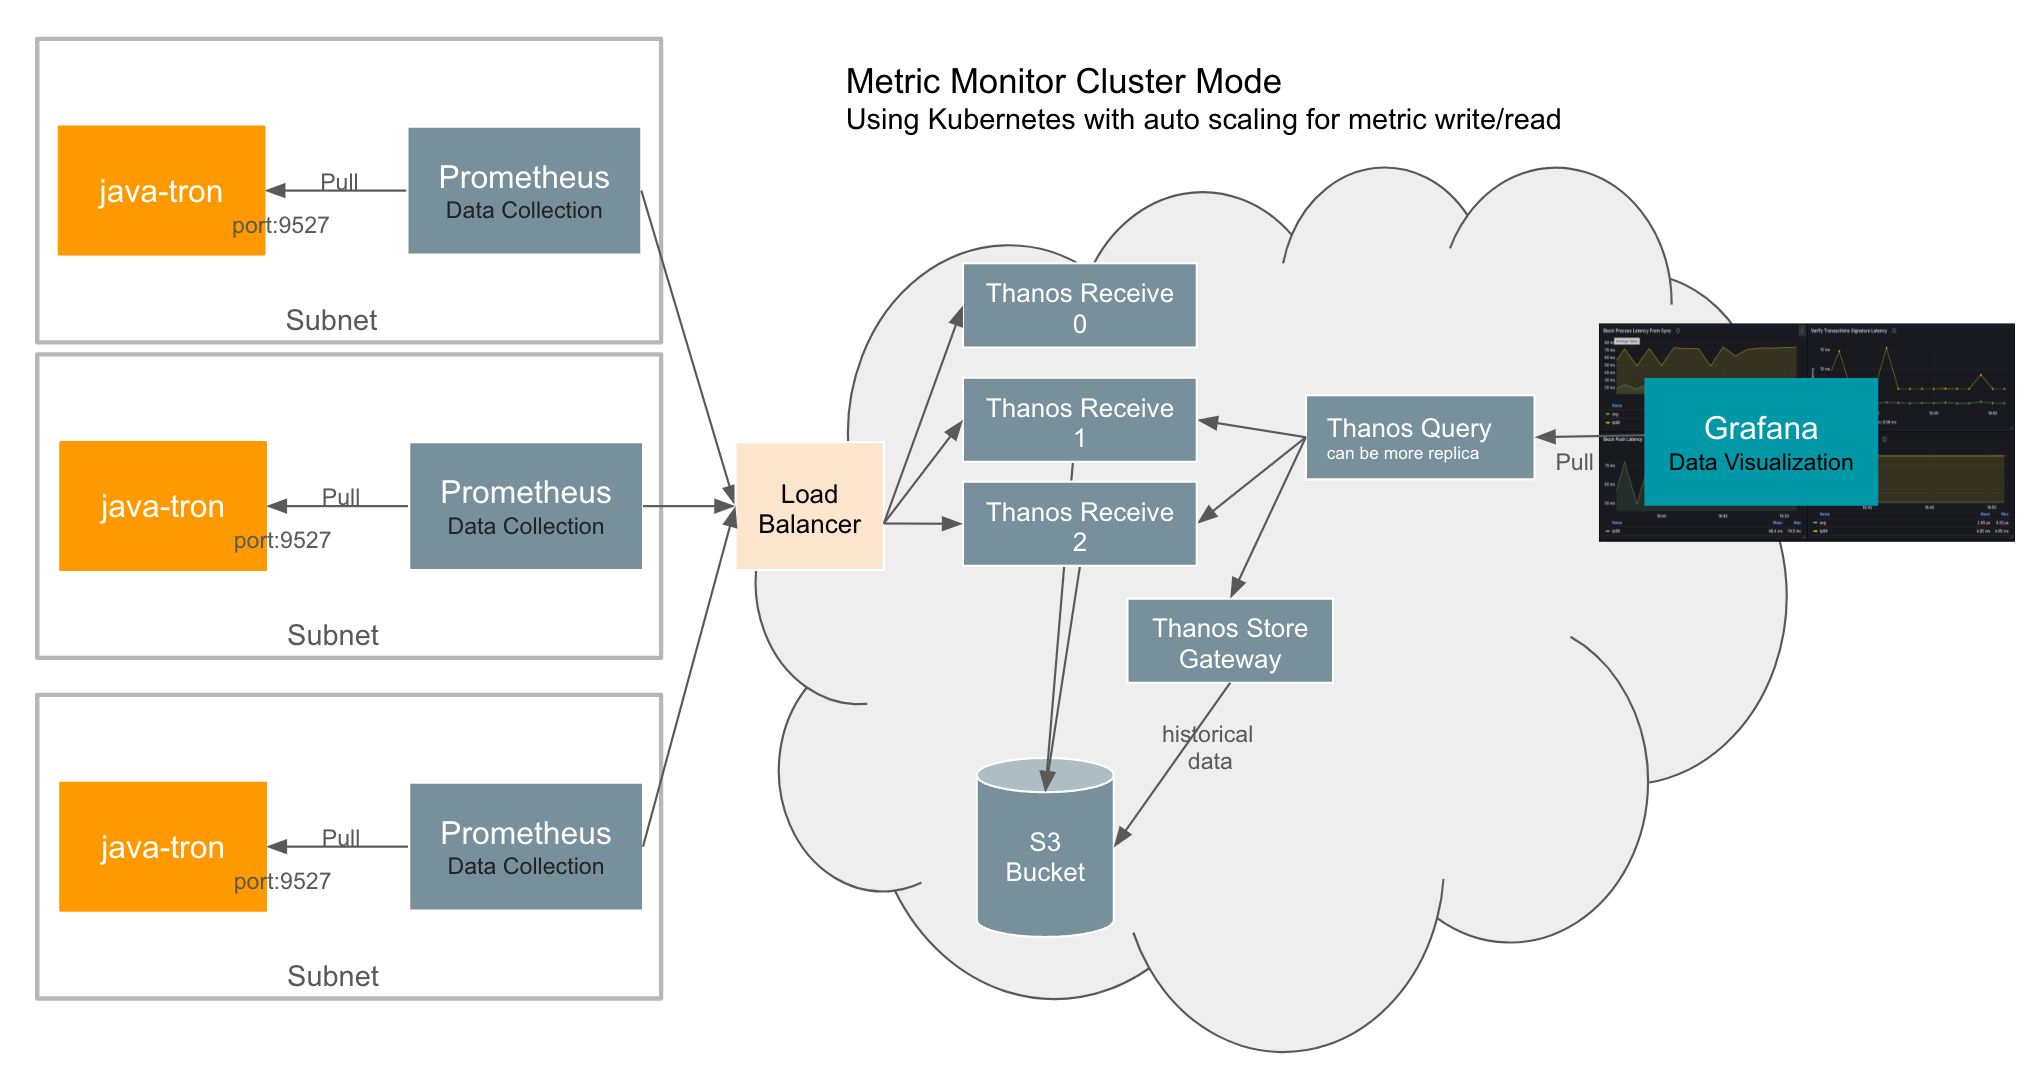
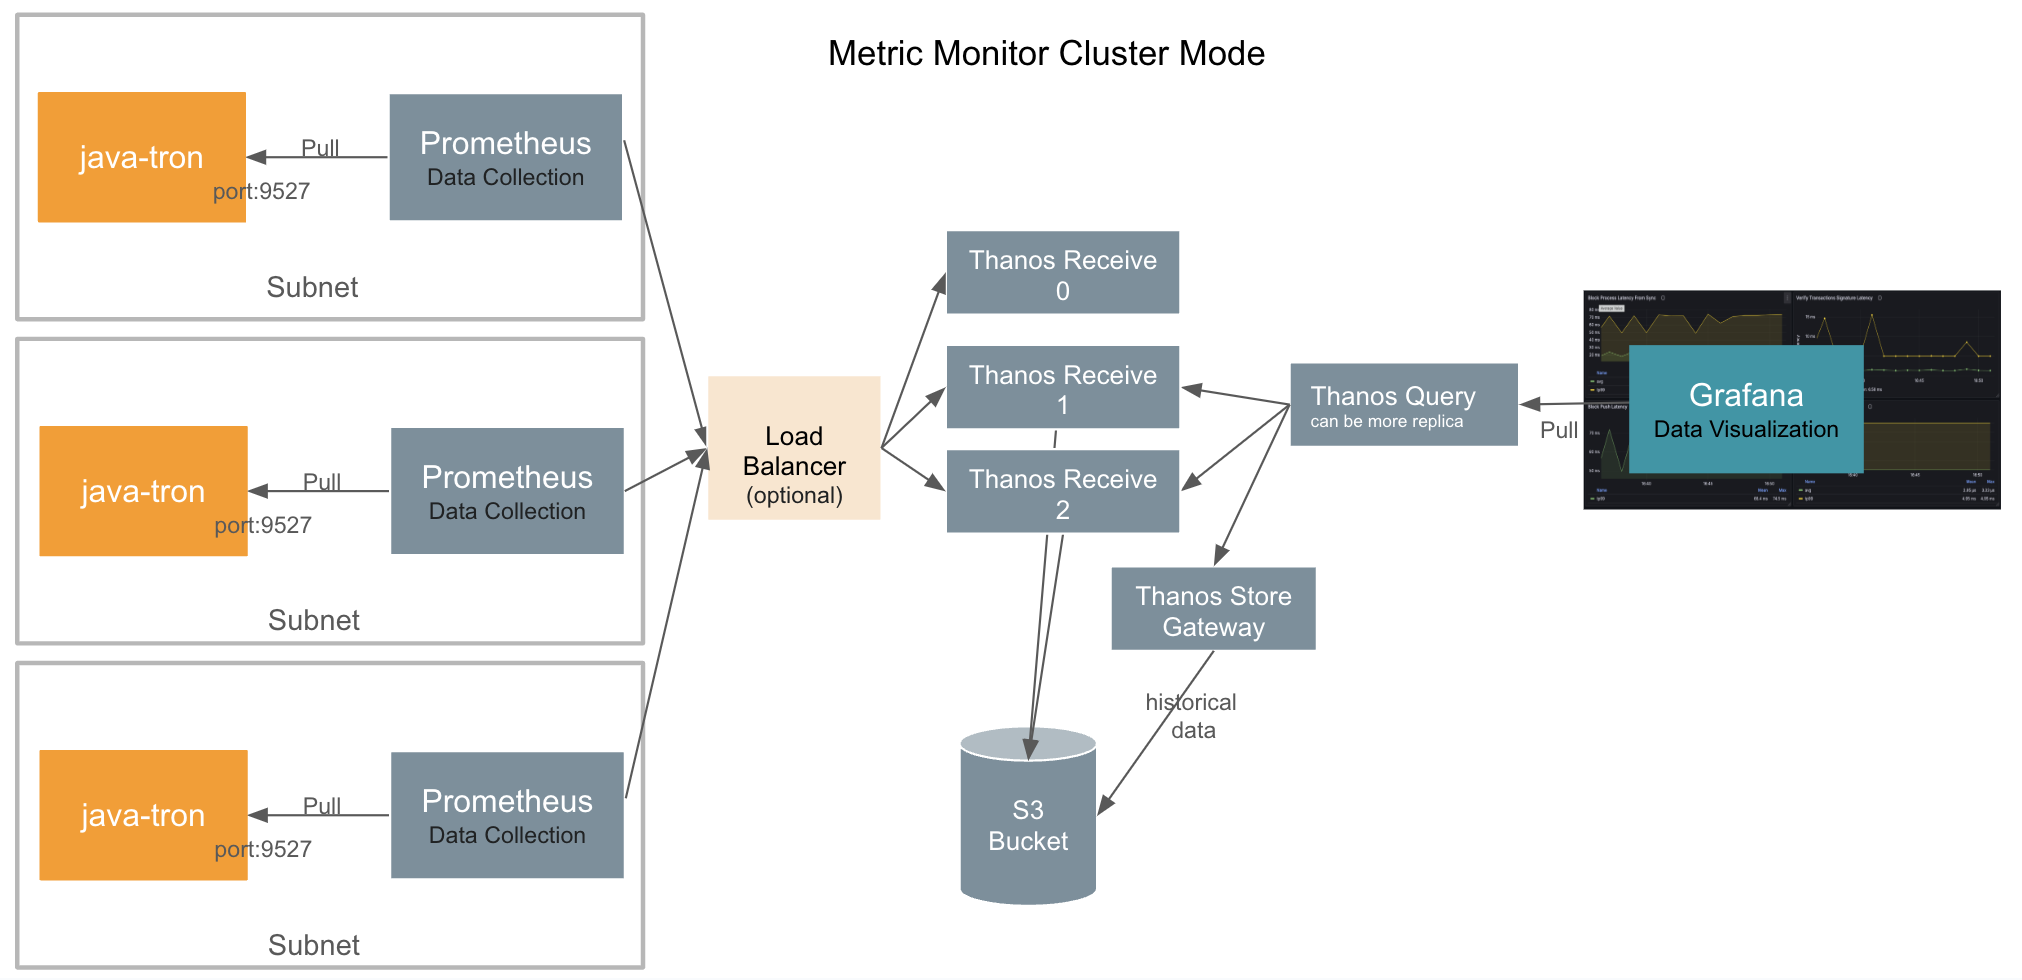
update

diff --git a/metric_monitor/REMOTE_WRITE_WITH_THANOS.md b/metric_monitor/REMOTE_WRITE_WITH_THANOS.md
@@ -15,28 +15,31 @@ To address these concerns, we need to change the pull mode either from the java-
 ### New Architecture
 Given these considerations, we will implement a push mode for the data flow from Prometheus to Grafana. Prometheus offers a **remote-write** feature that supports push mode, facilitating this transition. We have selected [Thanos](https://github.com/thanos-io/thanos) as an intermediate component. Thanos not only supports remote write but also provides additional features such as long-term storage, high availability, and global querying, thereby improving the overall architecture and functionality of our monitoring system.
 
-Below is the new more reliable architecture of the monitoring system. We will introduce how to set up the Prometheus remote-write feature and Thanos related services in the following sections.
-<img src="../images/metric_thanos_arch.png" alt="Alt Text" width="950" >
+The following diagram illustrates our enhanced monitoring system architecture in cluster mode with multiple java-tron services. This design provides improved reliability and scalability through distributed components. In the subsequent sections, we'll guide you through configuring Prometheus remote-write and Thanos services. For simpler use cases where high availability isn't critical, deploying a single Thanos Receive instance may suffice.
+
+<img src="../images/metric_cluster_mode.png" alt="Alt Text" width="950" >
 
 ## Implementation Guide
 This section introduces the steps of setting up Prometheus remote write with Thanos.
 
 ### Prerequisites
-Before starting, ensure you have:
+Before proceeding, ensure you have the following prerequisites:
+
 - Docker and Docker Compose installed (refer to [prerequisites](../README.md#prerequisites))
-  - Make sure docker resource memory is at least 16GB, as java-tron node needs at least 12GB memory.
-- The tron-docker repository cloned locally
-```sh
-git clone https://github.com/tronprotocol/tron-docker.git
-cd tron-docker/metric_monitor
-```
+  - For host machines running a java-tron FullNode, the minimum docker resource requirements, please refer to the [single_node](../single_node/README.md#prerequisites) section.
+- A local clone of the tron-docker repository
+  ```sh
+  git clone https://github.com/tronprotocol/tron-docker.git
+  cd tron-docker/metric_monitor
+  ```
 ### Main components
-The monitoring system consists of:
-- **TRON FullNode**: TRON FullNode service with metrics enabled
-- **Prometheus**: Monitoring service that collects metrics from the java-tron node
-- **Thanos Receive**: A component of Thanos that receives data from Prometheus’s remote write write-ahead log, exposes it, and/or uploads it to cloud storage
-- **Thanos Query**: A component of Thanos that implements Prometheus’s v1 API to aggregate data from the underlying components
-- **Grafana**: Visualization service that retrieves metrics from **Thanos Query** to provide visualized insights and alerts
+As shown in the new architecture, the monitoring system consists of the following key components:
+
+- **TRON FullNode**: A TRON blockchain node with metric collection capabilities enabled
+- **Prometheus**: A monitoring service that collects metrics from the java-tron node and forwards them to Thanos Receive using remote write protocol
+- **Thanos Receive**: A Thanos component that ingests metrics via Prometheus remote write, exposes them via StoreAPI, and persists them to cloud storage
+- **Thanos Query**: A Thanos component implementing Prometheus's v1 API to aggregate and deduplicate metrics from multiple underlying data sources
+- **Grafana**: A visualization platform that queries metrics from Thanos Query to create dashboards and alerts
 
 ### Step 1: Set up TRON and Prometheus services
 Run the below command to start java-tron and Prometheus services:
@@ -73,19 +76,20 @@ global:
 
 scrape_configs:
   - job_name: java-tron
-    scrape_interval: 3s  # High-frequency monitoring
+    scrape_interval: 1s  # High-frequency monitoring
     ...
     static_configs:
-      - targets: [tron-node1:9527]
+      - targets: tron-node1:9527 # Fill with IP address if the java-tron service run remotely
         labels:
           group: group-tron
           instance: fullnode-01
 
 remote_write:
   - url: http://[THANOS_RECEIVE_IP]:10908/api/v1/receive
+    headers: # Add necessary header information for authentication or service group differentiation
     metadata_config:
       send: true  # Enable metric metadata transmission
-      send_interval: 3s  # How frequently metric metadata is sent to remote Receive.
+      send_interval: 1s  # How frequently metric metadata is sent to remote Receive.
       max_samples_per_send: 500  # Batch size optimization
 ```
 - For `global.external_labels`:
@@ -94,30 +98,40 @@ remote_write:
     <img src="../images/metric_push_external_label.png" alt="Alt Text" width="680" >
 
 - For `scrape_configs`:
-  - The `scrape_interval` is set to 3s for high-frequency monitoring. You can adjust it based on your requirements. As the metric is collected every time the promethus service call java-tron service on `service:9527/metrics`, it is recommend not to set the `send_interval` too small, as it will increase the load on the java-tron service. As the recommendated scrape interval for high-resolution requirements is 1-5s, here we set the `send_interval` to 3s.
-  - The `targets` are the java-tron node's IP address and port. The Prometheus service scrapes metrics from this target.
-  - The `labels` are key-value pairs that help identify the target in the Prometheus service. You can use it in Grafana dashboards using label-based filtering (e.g., `{group="group-tron"}`).
+  - The `scrape_interval` determines how frequently Prometheus collects metrics. Set to 1 second by default for real-time monitoring, though this can be adjusted based on your monitoring requirements. Note that shorter intervals increase the load on both Prometheus and the java-tron service, as metrics are collected via HTTP calls to `service:9527/metrics`.
+  - The `targets` field specifies the java-tron services or other monitoring targets via their IP addresses and ports. Prometheus actively scrapes metrics from these defined endpoints.
+  - The `labels` section contains key-value pairs that uniquely identify each target within Prometheus. These labels enable powerful filtering capabilities in Grafana dashboards - for example, you can filter metrics using expressions like `{group="group-tron"}`.
 
 - For `remote_write`:
-  - Fill the `url` with the IP address of the Thanos Receive service started in the first step.
+  - Fill the `url` with the IP address of the Thanos Receive service started in the following step.
   - Check the official documentation [remote_write](https://prometheus.io/docs/prometheus/latest/configuration/configuration/#remote_write) for all configurations' explanation.
 
 ##### 2. Storage configurations
-- The volumes command `- ../prometheus_data:/prometheus` mounts a local directory used by Prometheus to store metrics data.
+- The volumes command `../prometheus_data:/prometheus` mounts a local directory used by Prometheus to store metrics data.
   - Although in this case, we use Prometheus with remote-write, it also stores metrics data locally. Through http://host_IP:9090/, you can check the running status of the Prometheus service and observe targets.
-- The `--storage.tsdb.retention.time=30d` flag specifies the retention period for the metrics data. Prometheus will automatically delete data older than 30 days. For each metric request of a java-tron(v4.7.6+) FullNode connecting Mainnet, it returns ~9KB raw metric data. With the `scrape_interval: 3s`, it takes about 7GB per month raw data. TSDB will do compression, **thus for 30d retention, one java-tron takes about promethus less than 1GB**. The TSDB is useful for long-term storage and querying.
-- The `--storage.tsdb.max-block-duration=30m` and `--storage.tsdb.min-block-duration=30m` flags specify the block generation duration for the TSDB. In this case, it is set to 30 minutes. This means that the TSDB will generate a new block every 30 minutes with about 900KB raw metric data.
+- The `--storage.tsdb.retention.time=30d` flag specifies the retention period for the metrics data. Prometheus will automatically delete data older than 30 days. For each metric request of a java-tron(v4.7.6+) FullNode connecting Mainnet, it returns ~9KB raw metric data. With the `scrape_interval: 1s`, it takes about 23GB per month raw data. TSDB will do compression, **thus for 30d retention, one java-tron takes about promethus 5GB**. The TSDB is useful for long-term storage and querying.
+- The `--storage.tsdb.max-block-duration=1h` flags specify the block generation duration for the TSDB locally. In this case, it is set to 1 hours. This means that the TSDB will generate a new block every hour with about 30MB raw metric data.
 - Other storage flags can be found in the [official documentation](https://prometheus.io/docs/prometheus/latest/storage/#operational-aspects). For a quick start, you could use the default values.
 
 ### Step 2: Set up Thanos Receive
- The [Thanos Receive](https://thanos.io/tip/components/receive.md/#receiver) service implements the Prometheus Remote Write API. It builds on top of the existing Prometheus TSDB and retains its usefulness while extending its functionality with long-term-storage, horizontal scalability, and downsampling. Prometheus instances are configured to continuously write metrics to it, and then Thanos Receive uploads TSDB blocks to an object storage bucket every 2 hours by default. Thanos Receive exposes the StoreAPI so that Thanos Queriers can query received metrics in real-time.
+ The [Thanos Receive](https://thanos.io/tip/components/receive.md/#receiver) service implements the Prometheus Remote Write API. It builds on top of the existing Prometheus TSDB and retains its usefulness while extending its functionality with long-term-storage, horizontal scalability, and downsampling. Prometheus instances are configured to continuously write metrics to it. Thanos Receive exposes the StoreAPI so that Thanos Queriers can query received metrics in real-time.
 
-Run the below command to start the Thanos Receive and [Minio](https://github.com/minio/minio) service for long-term metric storage. Minio is S3 compatible object storage service.
+
+First, run the below command to start the [Minio](https://github.com/minio/minio) service for long-term metric storage. Minio is S3 compatible object storage service. Thanos Receive uploads TSDB blocks to an object storage bucket every 2 hours.
 ```sh
+# Start Minio
 docker-compose -f ./docker-compose/minio.yml up -d
 
-docker-compose -f ./docker-compose/thanos-receive.yml up -d
+ # First set the alias with root credentials
+docker exec minio mc alias set local http://localhost:9000 minio melovethanos
 
+# Then create the bucket
+docker exec minio mc mb local/test-thanos-001
+```
+
+Run the below command to start the Thanos Receive.
+```sh
+docker-compose -f ./docker-compose/thanos-receive.yml up -d
 ```
 
 Core configuration for Thanos Receive in [thanos-receive.yml](./docker-compose/thanos-receive.yml):
